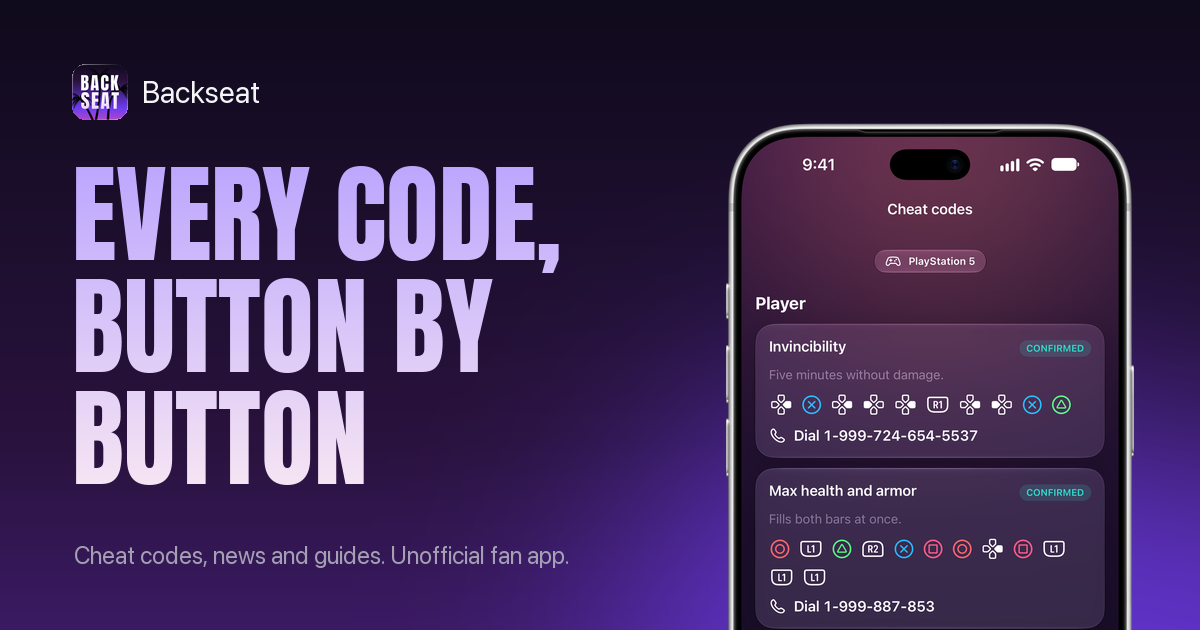
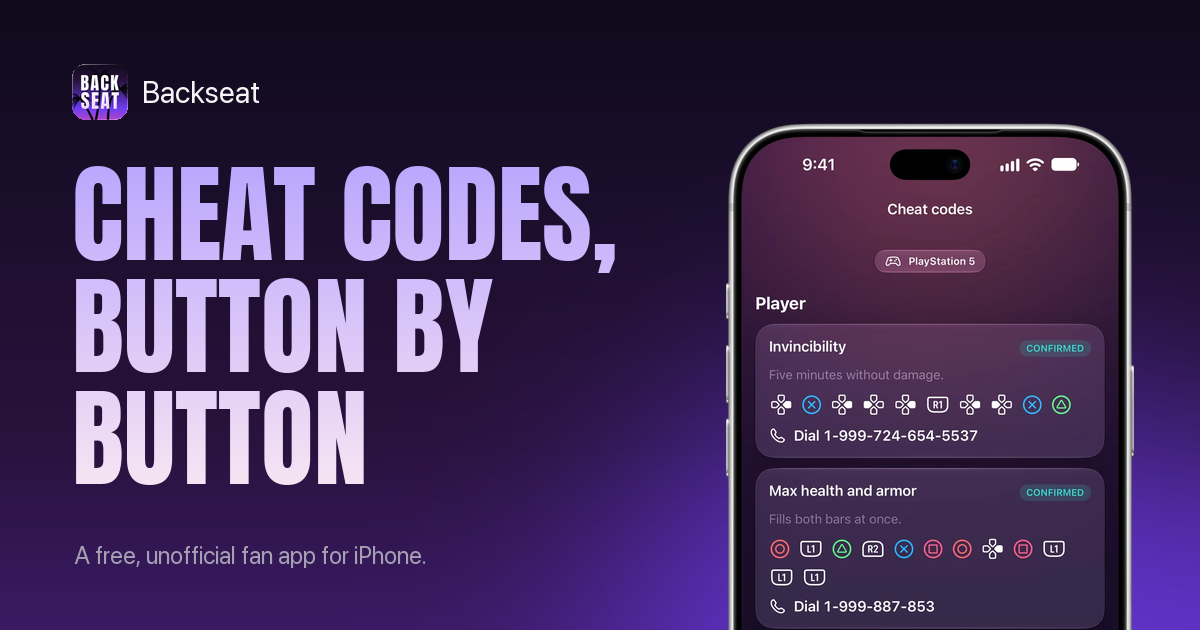
Landing: stop-slop pass over the copy
Headline "Cheat codes, button by button" instead of "Every code", the same in the
link preview. Full sentences with a subject in the lede, the descriptions and the
news panel; no "never", "nobody" or "probably"; the Reported chip names Rockstar.

Changed region(s): [[0.0617, 0.2413, 0.5242, 0.4524], [0.0617, 0.8746, 0.4625, 0.9048]]

diff --git a/index.html b/index.html
@@ -4,7 +4,7 @@
 <meta charset="utf-8">
 <meta name="viewport" content="width=device-width, initial-scale=1, viewport-fit=cover">
 <title>Backseat: cheat codes, news and guides for GTA 6</title>
-<meta name="description" content="Cheat codes for GTA 6 with the buttons for your PS5 or Xbox, plus the day's news and short guides, on your iPhone. An unofficial fan app, free on the App Store.">
+<meta name="description" content="Backseat shows GTA 6 cheat codes with the buttons for your PS5 or Xbox, plus news and short guides. A free, unofficial fan app for iPhone.">
 <meta name="theme-color" content="#0F0A1C">
 <meta name="apple-itunes-app" content="app-id=6830724358">
 <link rel="icon" type="image/png" href="favicon.png">
@@ -12,8 +12,8 @@
 <link rel="canonical" href="https://getbackseat.app/">
 <meta property="og:type" content="website">
 <meta property="og:site_name" content="Backseat">
-<meta property="og:title" content="Backseat: every GTA 6 cheat code, button by button">
-<meta property="og:description" content="Cheat codes with the buttons for your PS5 or Xbox, the day's news and short guides. An unofficial fan app for iPhone.">
+<meta property="og:title" content="Backseat: GTA 6 cheat codes, button by button">
+<meta property="og:description" content="Backseat shows GTA 6 cheat codes with the buttons for your PS5 or Xbox, plus news and short guides. A free, unofficial fan app for iPhone.">
 <meta property="og:url" content="https://getbackseat.app/">
 <meta property="og:image" content="https://getbackseat.app/assets/landing/og.png">
 <meta property="og:image:width" content="1200">
@@ -26,7 +26,7 @@
   "@type": "MobileApplication",
   "name": "Backseat",
   "url": "https://getbackseat.app/",
-  "description": "Cheat codes for GTA 6 with the buttons for your PS5 or Xbox, the day's news and short guides. An unofficial fan app.",
+  "description": "Backseat shows GTA 6 cheat codes with the buttons for your PS5 or Xbox, plus news and short guides. A free, unofficial fan app for iPhone.",
   "operatingSystem": "iOS 26.0 or later",
   "applicationCategory": "EntertainmentApplication",
   "installUrl": "https://apps.apple.com/app/id6830724358",
@@ -274,7 +274,7 @@
     <div class="wrap hero-grid">
       <div class="hero-copy">
         <p class="eyebrow">Unofficial companion for GTA VI</p>
-        <h1 class="display">Every code, button by button</h1>
+        <h1 class="display">Cheat codes, button by button</h1>
 
         <figure class="combo" aria-label="Invincibility on PlayStation 5: Right, Cross, Right, Left, Right, R1, Right, Left, Cross, Triangle. Or dial 1-999-724-654-5537 on the in-game phone.">
           <figcaption class="combo-head" aria-hidden="true">
@@ -297,7 +297,7 @@
           <p class="combo-dial" aria-hidden="true"><svg><use href="#k-phone"/></svg>or dial <b>1-999-724-654-5537</b></p>
         </figure>
 
-        <p class="lede">Cheat codes with the buttons for your PlayStation&nbsp;5 or Xbox Series&nbsp;X|S, plus the day’s news and short guides. Each one links to its source.</p>
+        <p class="lede">Backseat shows cheat codes with the buttons for your PlayStation&nbsp;5 or Xbox Series&nbsp;X|S. You also get the day’s news and short guides, each with a link to its source.</p>
         <div class="cta">
           <a class="store" href="https://apps.apple.com/app/id6830724358"><img src="assets/app-store-badge.svg" alt="Download on the App Store" width="168" height="56"></a>
           <p class="cta-note">Free</p>
@@ -317,8 +317,8 @@
         <h2 class="display" id="codes-title">Your console, your buttons</h2>
         <p>Pick PlayStation&nbsp;5 or Xbox Series&nbsp;X|S once, and the app shows each code as the buttons on your controller, in the order you press them. If the game also takes a code on the in-game phone, you get the number to dial.</p>
         <dl class="points">
-          <div><dt>No app update for new codes</dt><dd>We add codes on our side, so you never update the app for them. Turn on notifications and we’ll tell you when new ones arrive.</dd></div>
-          <div><dt>Player, vehicles, weapons, world</dt><dd>Codes sit in groups, so you find the helicopter without scrolling past the armor.</dd></div>
+          <div><dt>No app update for new codes</dt><dd>We add new codes on our server, and you see them without updating the app. Turn on notifications and we’ll tell you when they arrive.</dd></div>
+          <div><dt>Groups by type</dt><dd>You find the helicopter under Vehicles without scrolling past the armor.</dd></div>
         </dl>
       </div>
       <div class="panel-phone">
@@ -331,11 +331,11 @@
       <div class="panel-copy">
         <p class="eyebrow">News</p>
         <h2 class="display" id="news-title">The day’s news in a few lines</h2>
-        <p>Patches, platform news and what Rockstar said, in our own words with a link to the source. Pull down on the screen to check for updates.</p>
+        <p>We retell patches and platform news in our own words and link the source. Pull down on the screen to check for updates.</p>
         <ul class="legend">
           <li><span class="chip chip-confirmed">Confirmed</span>Rockstar, Sony or Microsoft said it, or it’s in the game.</li>
-          <li><span class="chip chip-reported">Reported</span>The press or players say so, and nobody has confirmed it yet.</li>
-          <li><span class="chip chip-expected">Expected</span>Earlier games had it, so it will probably come back.</li>
+          <li><span class="chip chip-reported">Reported</span>The press or players say so, and Rockstar hasn’t confirmed it yet.</li>
+          <li><span class="chip chip-expected">Expected</span>Earlier GTA games had it, so we expect it back.</li>
         </ul>
       </div>
       <div class="panel-phone">
@@ -348,7 +348,7 @@
       <div class="panel-copy">
         <p class="eyebrow">Guides</p>
         <h2 class="display" id="guides-title">Tips that save you a reload</h2>
-        <p>Find out why a story mission won’t start until you have the cash, or why a new hat won’t shake off the police. Each tip fits on one card and links to where it came from.</p>
+        <p>Find out why a story mission won’t start until you have the cash, or why a new hat won’t shake off the police. Each tip fits on one card, with a link to its source.</p>
       </div>
       <div class="panel-phone">
         <img src="assets/landing/phone-intel-guides.webp" width="840" height="839" loading="lazy"
@@ -366,11 +366,11 @@
       </details>
       <details>
         <summary>What are the numbers under some codes?</summary>
-        <p>Some cheats also work through your character’s phone in the game. Open the phone, type the number on its keypad and call. The cheat turns on the same way as with the buttons. When a code works both ways, the app shows both.</p>
+        <p>Some cheats also work through your character’s phone in the game. Open the phone, type the number on its keypad and call. The cheat turns on the same way as with the buttons. If a code works both ways, the app shows both.</p>
       </details>
       <details>
         <summary>Do I need to update the app to get new codes?</summary>
-        <p>No. Codes, news and guides load from our server when you open the app. Pull down on any screen to check now.</p>
+        <p>No. The app loads codes, news and guides from our server when you open it. Pull down on any screen to check now.</p>
       </details>
       <details>
         <summary>Which consoles does it cover?</summary>
